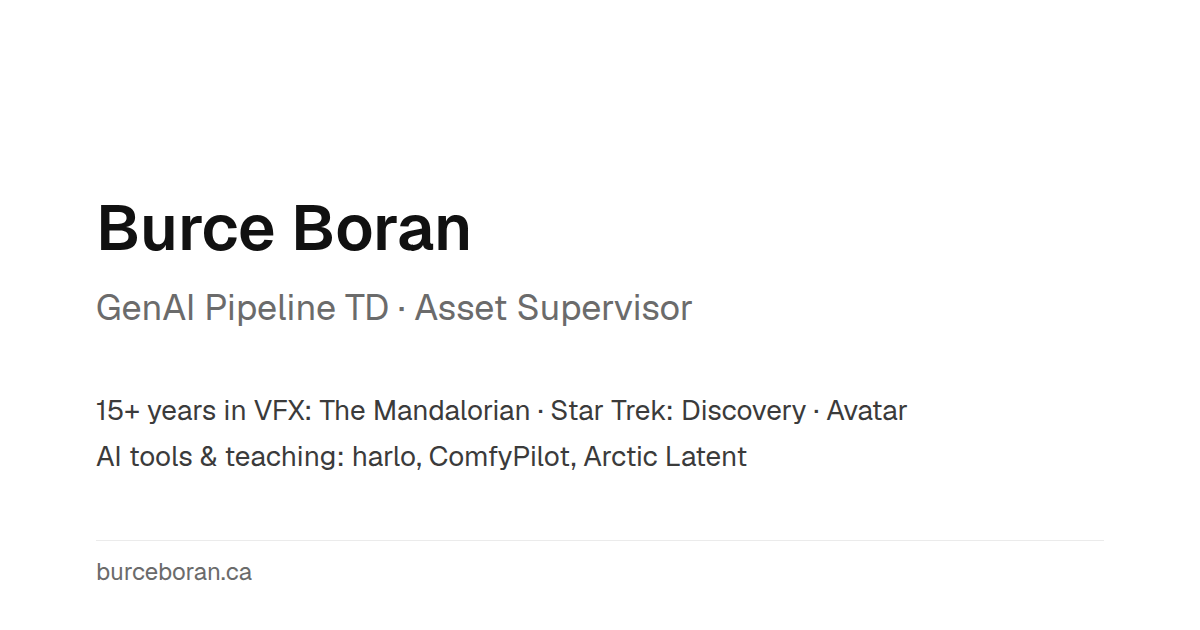
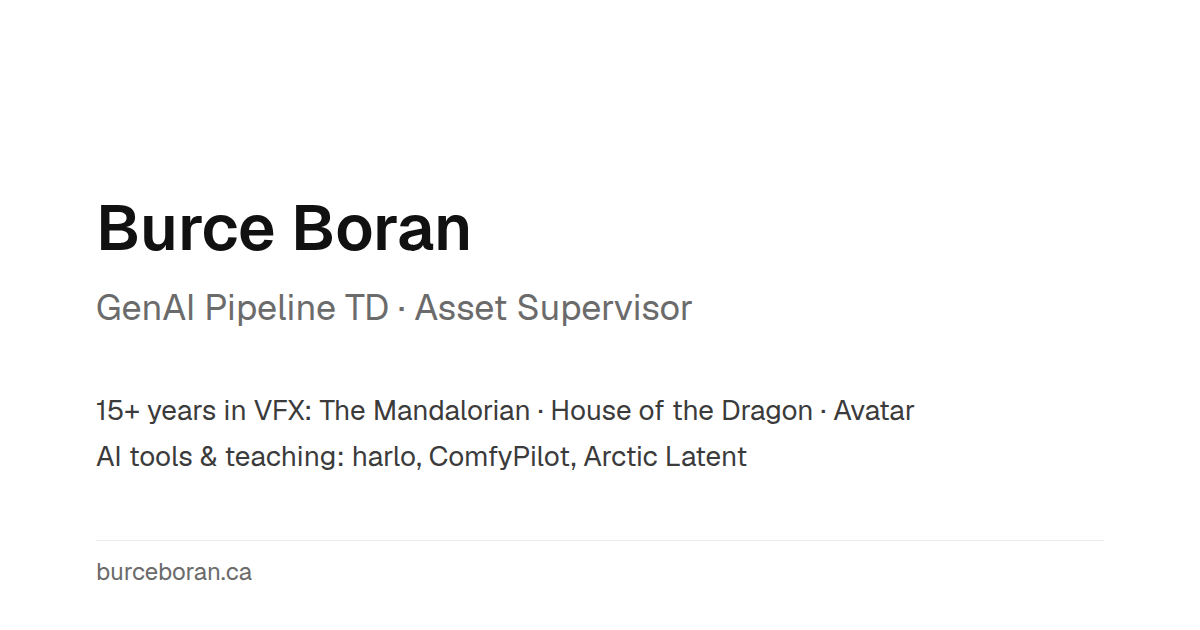
Description and link preview name House of the Dragon in place of Star Trek: Discovery, like the bio

Changed region(s): [[0.4625, 0.6333, 0.7708, 0.6937]]

diff --git a/src/site.js b/src/site.js
@@ -13,7 +13,7 @@ export const youtubeUrl = "https://www.youtube.com/@ArcticLatent";
 
 export const pageTitle = "Burce Boran, GenAI Pipeline TD and Asset Supervisor";
 export const pageDescription =
-  "GenAI Pipeline TD and asset supervisor, with over 15 years in visual effects on films and series including The Mandalorian, Star Trek: Discovery and Avatar: The Last Airbender. I also teach ComfyUI on Arctic Latent and build free, open-source apps.";
+  "GenAI Pipeline TD and asset supervisor, with over 15 years in visual effects on films and series including The Mandalorian, House of the Dragon and Avatar: The Last Airbender. I also teach ComfyUI on Arctic Latent and build free, open-source apps.";
 export const email = "burce.boran@gmail.com";
 
 // A reel's still is its Vimeo thumbnail unless `still` says otherwise: a
